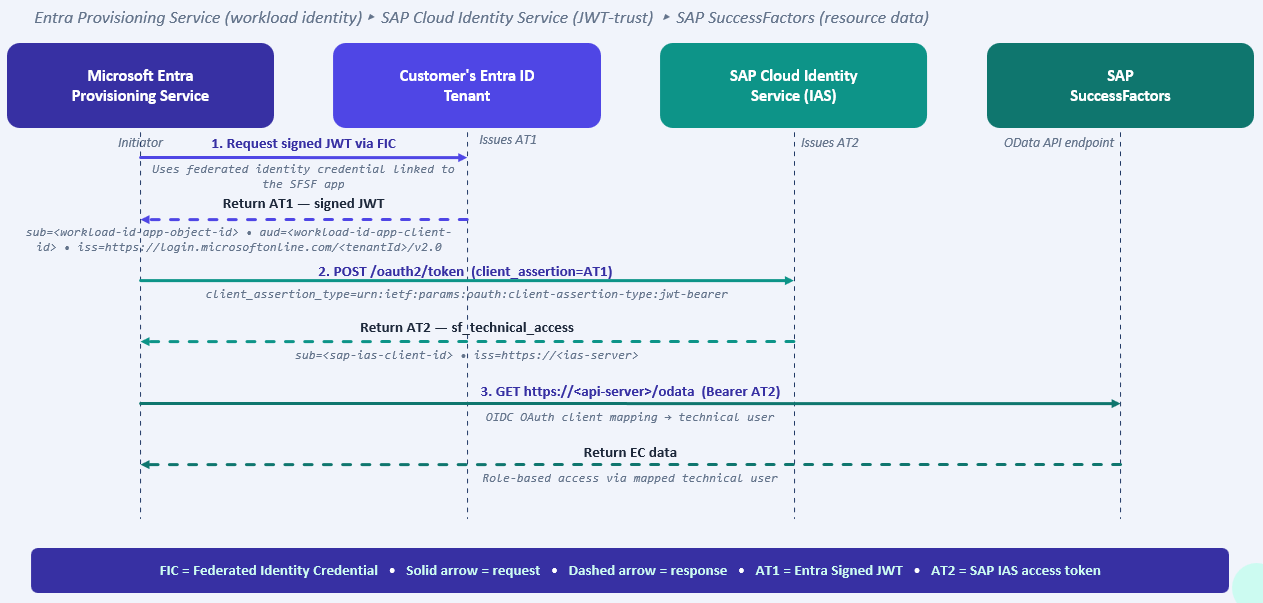
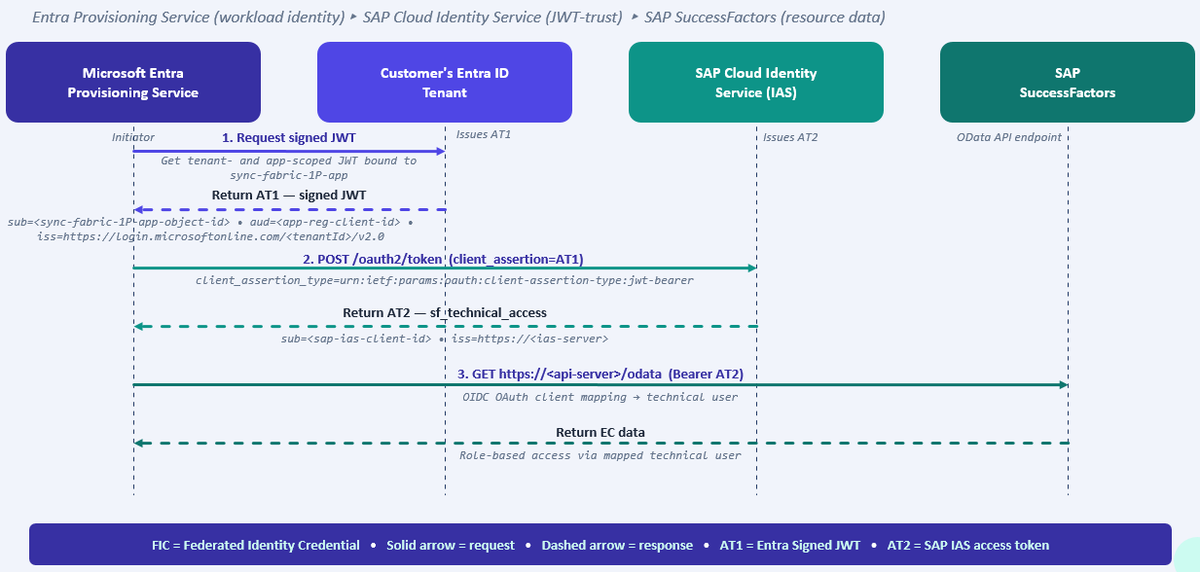
Updated the SuccessFactors Workload Identity article (#14347)
* Updated the article

* Updated image

---------

diff --git a/docs/identity/app-provisioning/configure-workload-identity-sap-successfactors-provisioning.md b/docs/identity/app-provisioning/configure-workload-identity-sap-successfactors-provisioning.md
@@ -1,29 +1,41 @@
 ---
-title: Configure workload identity-based authentication for SAP SuccessFactors provisioning (Preview)
+title: Configure workload identity for SAP SuccessFactors provisioning
 description: Learn how to replace basic authentication with short-lived, federated OpenID Connect tokens for Microsoft Entra provisioning to SAP SuccessFactors.
 manager: pmwongera
 ms.service: entra-id
 ms.subservice: app-provisioning
 ms.topic: how-to
-ms.date: 05/26/2026
+ms.date: 09/10/2026
 ms.reviewer: cmmdesai
-ms.custom: sap-successfactors, workload-identity, provisioning
+ms.custom: sap-successfactors, workload-identity, provisioning, msecd-doc-authoring-1026
+ai-usage: ai-assisted
+#customer intent: As an administrator, I want to configure workload identity-based authentication for SAP SuccessFactors provisioning so that I can replace long-lived basic authentication credentials with short-lived tokens.
 ---
 
 # Configure workload identity-based authentication for SAP SuccessFactors provisioning (Preview)
 
-This article shows you how to configure workload identity-based authentication for the Microsoft Entra SAP SuccessFactors provisioning integrations. Workload identity-based authentication replaces the long-lived basic authentication credential used by the provisioning service with short-lived, federated OpenID Connect (OIDC) tokens issued by your Microsoft Entra tenant and trusted by your SAP Cloud Identity Service (SAP IAS) instance.
+This article is for administrators who configure Microsoft Entra provisioning integrations with SAP SuccessFactors. It explains how to replace the provisioning service's long-lived basic authentication credential with short-lived OpenID Connect (OIDC) tokens issued by your Microsoft Entra tenant. SAP Cloud Identity Services (SAP IAS) validates these tokens and exchanges them for access tokens used to call SAP SuccessFactors APIs. Before you begin, make sure you have a configured SAP SuccessFactors provisioning app and access to Microsoft Entra, SAP IAS, and SAP SuccessFactors administration.
 
 > [!NOTE]
 > We make public previews available to our customers under the terms applicable to previews. These terms are outlined in the overall Microsoft product terms for [online services](https://www.microsoft.com/licensing/terms/product/ForOnlineServices/all).
 
-This change helps customers transition to a more secure authentication model in preparation for SAP's plan to [deprecate basic authentication for SuccessFactors APIs](https://help.sap.com/docs/successfactors-release-information/8e0d540f96474717bbf18df51e54e522/fcc05a902b4140e585d968c2fe4a96bc.html).
+Workload identity-based authentication provides a more secure authentication model in preparation for SAP's plan to [deprecate basic authentication for SuccessFactors APIs](https://help.sap.com/docs/successfactors-release-information/8e0d540f96474717bbf18df51e54e522/fcc05a902b4140e585d968c2fe4a96bc.html).
 
-Applies to the following provisioning integrations:
+This article applies to the following provisioning integrations:
 
 - SuccessFactors to on-premises Active Directory user provisioning
 - SuccessFactors to Microsoft Entra ID user provisioning
 - SuccessFactors Writeback
+
+## Prerequisites
+
+Before you start, make sure that you have the following in place:
+
+- **SAP SuccessFactors provisioning app** configured from the Microsoft Entra enterprise application gallery.
+- **SAP Cloud Identity Services (SAP IAS)** available and [configured as the authentication service for SAP SuccessFactors](https://help.sap.com/docs/successfactors-platform/setting-up-sap-successfactors-with-identity-authentication-and-identity-provisioning-services/checking-to-see-if-you-aready-have-identity-authentication-enabled).
+- The [Application Administrator](/entra/identity/role-based-access-control/permissions-reference#application-administrator) role in Microsoft Entra ID to register or select a workload identity application and update the authentication method for your SuccessFactors provisioning app.
+- Access in the SAP Cloud Identity Services admin console that permits you to create an OpenID Connect application, add an application API dependency, and configure **JWT Trust-by-Issuer** client authentication.
+- Access in the SAP SuccessFactors admin console that permits you to manage OIDC OAuth client applications and map a client to a technical/API user with the required role-based permissions.
 
 ## Why workload identity-based authentication
 
@@ -32,65 +44,58 @@ Workload identity-based authentication strengthens your security posture by remo
 | Benefit | What changes |
 | --- | --- |
 | **No static credentials** | Stored passwords and long-lived secrets are replaced with OIDC-issued tokens that expire in minutes. |
-| **Federated by design** | A federated identity credential links your Microsoft Entra tenant to SAP Cloud Identity Service through OIDC trust rules that you control. |
-| **Least-privilege access** | The short-lived access token is scoped to the SAP SuccessFactors OData API and bound to a role-based technical/API user. |
-| **Fully revocable** | Trust can be revoked from Microsoft Entra at any time without rotating shared secrets in SAP. |
+| **Federated by design** | SAP IAS validates Microsoft Entra-issued tokens through tenant-specific OIDC trust rules that you control. |
+| **Least-privilege access** | The short-lived access token is scoped to the SAP SuccessFactors Open Data Protocol (OData) API and bound to a role-based technical/API user. |
+| **Fully revocable** | You can revoke the trust by removing or disabling the Trust-by-Issuer configuration in SAP IAS without rotating shared secrets. |
 
 ## How the flow works
 
-Microsoft Entra provisioning service authenticates to SAP SuccessFactors using short-lived OIDC tokens issued by your Microsoft Entra tenant and trusted by your SAP Cloud Identity Service instance. The flow has three steps:
+Microsoft Entra provisioning service authenticates to SAP SuccessFactors through SAP IAS. Microsoft Entra issues a short-lived OIDC token that identifies the tenant-local SyncFabric service principal and is scoped to the customer workload identity application. SAP IAS validates this token and exchanges it for an access token used with SAP SuccessFactors. The flow has three steps:
 
-1. **Microsoft Entra acquires a signed JWT.** Microsoft Entra provisioning service uses a federated identity credential linked to your SuccessFactors provisioning app to acquire a signed JWT from your Microsoft Entra tenant.
-2. **SAP Cloud Identity Service exchanges the JWT for an access token.** The signed JWT is presented to SAP Cloud Identity Service, which is trusted by SAP SuccessFactors. SAP Cloud Identity Service validates the JWT against the trust rules you configure in the SAP Cloud Identity Service admin console and returns a short-lived access token that can only be used to query the SAP SuccessFactors OData API.
-3. **The provisioning service calls the OData API.** Microsoft Entra provisioning service uses the short-lived access token to query the SAP SuccessFactors OData API. The access token includes a client ID that's mapped to a technical/API user in SAP SuccessFactors with role-based permission to access SAP SuccessFactors entities.
+> [!NOTE]
+> In this article, **SyncFabric** refers to the Microsoft Entra provisioning service. The **SyncFabric Workload Identity ISV Integration Client** service principal represents this service as the subject (`sub`) of the Microsoft Entra-issued JSON Web Token (JWT). AT1 also includes the authorized party (`azp`) claim set to the application (client) ID of the **SyncFabric Workload Identity ISV Integration Client**.
 
-:::image type="content" source="./media/configure-workload-identity-sap-successfactors-provisioning/entra-sap-workload-identity-detailed-flow.png" alt-text="Diagram of the detailed runtime flow showing AT1 acquisition from Microsoft Entra, exchange for AT2 at SAP Cloud Identity Service, and the OData API call to SAP SuccessFactors." lightbox="./media/configure-workload-identity-sap-successfactors-provisioning/entra-sap-workload-identity-detailed-flow.png":::
+1. **The provisioning service obtains a signed JWT.** Microsoft Entra issues a JWT in which the issuer (`iss`) identifies your tenant, the subject (`sub`) identifies the tenant-local SyncFabric first-party service principal, and the audience (`aud`) identifies the customer workload identity application.
+1. **SAP IAS exchanges the JWT for an access token.** The signed JWT is presented to SAP IAS, which is trusted by SAP SuccessFactors. SAP IAS validates the token signature, issuer, subject, and audience against the Trust-by-Issuer configuration and returns a short-lived access token that can only be used to query the SAP SuccessFactors OData API.
+1. **The provisioning service calls the OData API.** Microsoft Entra provisioning service uses the short-lived access token to query the SAP SuccessFactors OData API. The access token includes a client ID that's mapped to a technical/API user in SAP SuccessFactors with role-based permission to access SAP SuccessFactors entities.
+
+:::image type="content" source="./media/configure-workload-identity-sap-successfactors-provisioning/entra-sap-workload-identity-detailed-flow.png" alt-text="Diagram of OIDC token acquisition, SAP IAS token exchange, and SAP SuccessFactors OData API access." lightbox="./media/configure-workload-identity-sap-successfactors-provisioning/entra-sap-workload-identity-detailed-flow.png":::
 
 ### Token exchange sequence diagram
 
 The runtime exchange involves three cloud services (Microsoft Entra ID, SAP IAS and SAP SuccessFactors) and two access tokens (AT):
 
-- **AT1** — A JWT issued by Microsoft Entra ID through the federated identity credential.
-- **AT2** — A short-lived access token issued by SAP Cloud Identity Service after it validates AT1 through Trust-by-Issuer.
+- **AT1** — A JWT issued by Microsoft Entra ID. The token is bound to the SyncFabric first-party service principal and scoped to the customer workload identity application.
+- **AT2** — A short-lived access token issued by SAP IAS after it validates AT1 through Trust-by-Issuer.
 
 The following swim-lane shows who calls whom, in order, at runtime.
 
-:::image type="content" source="./media/configure-workload-identity-sap-successfactors-provisioning/token-exchange-sequence-diagram.png" alt-text="Sequence diagram of the runtime token exchange between Microsoft Entra provisioning service, the customer's Entra ID tenant, SAP Cloud Identity Service, and SAP SuccessFactors." lightbox="./media/configure-workload-identity-sap-successfactors-provisioning/token-exchange-sequence-diagram.png":::
+:::image type="content" source="./media/configure-workload-identity-sap-successfactors-provisioning/token-exchange-sequence-diagram.png" alt-text="Sequence diagram of token exchange between Microsoft Entra provisioning, SAP IAS, and SAP SuccessFactors." lightbox="./media/configure-workload-identity-sap-successfactors-provisioning/token-exchange-sequence-diagram.png":::
 
 ### Token claim reference
 
 | Token | Claim | Value |
 | --- | --- | --- |
-| **AT1** (Microsoft Entra–issued JWT) | `sub` | `<workload-identity-app-object-id>` |
-| | `aud` | `<workload-identity-app-client-id>` |
+| **AT1** (Microsoft Entra–issued JWT) | `sub` | Object ID of the **SyncFabric Workload Identity ISV Integration Client** service principal |
+| | `aud` | Application (client) ID of the customer workload identity application |
 | | `iss` | `https://login.microsoftonline.com/<tenantId>/v2.0` |
+| | `azp` | Application (client) ID of the **SyncFabric Workload Identity ISV Integration Client** |
 | **AT2** (SAP IAS access token) | `sub` | `<sap-ias-app-client-id>` |
 | | `iss` | `https://<sap-ias-server>` |
 | | `ias_apis` | `sf_technical_access` |
 | | `client_assertion_type` | `urn:ietf:params:oauth:client-assertion-type:jwt-bearer` |
 
-## Prerequisites
-
-Before you start, make sure that you have the following in place:
-
-- **SAP SuccessFactors provisioning app** configured from the Microsoft Entra enterprise application gallery.
-- **SAP Cloud Identity Service (SAP IAS)** available and [configured as the authentication service for SAP SuccessFactors](https://help.sap.com/docs/successfactors-platform/setting-up-sap-successfactors-with-identity-authentication-and-identity-provisioning-services/checking-to-see-if-you-aready-have-identity-authentication-enabled).
-- **Administrator access** to the Microsoft Entra admin center (App Admin role), the SAP Cloud Identity Service admin console, and the SAP SuccessFactors admin console to configure the following:
-  - In Microsoft Entra admin center, you need access to register an app with **Federated identity credential** and update the authentication mechanism for your SuccessFactors provisioning app to use this workload identity.
-  - In SAP Cloud Identity Service (SAP IAS) admin console, you need access to configure **JWT Trust-by-Issuer** trust relationship that allows SAP Cloud Identity Service to trust Microsoft Entra–issued tokens for your tenant.
-  - In SAP SuccessFactors admin console, you need access to configure the **OIDC OAuth client mapping** that binds the SAP IAS client ID to a SuccessFactors technical/API user with role-based permissions.
-
 ## Planning the upgrade
 
-Switching to workload identity-based authentication involves coordination across three admin teams — the teams that administer Microsoft Entra, SAP Cloud Identity Service, and SAP SuccessFactors. Share this article with all relevant stakeholders before you begin so that everyone has a clear understanding of the end-to-end flow.
+Switching to workload identity-based authentication involves coordination across three admin teams — the teams that administer Microsoft Entra, SAP Cloud Identity Services, and SAP SuccessFactors. Share this article with all relevant stakeholders before you begin so that everyone has a clear understanding of the end-to-end flow.
 
 Consider the following approach:
 
 - **Coordinate across teams.** Set up a working session with representation from each service team (Microsoft Entra, SAP IAS, and SAP SuccessFactors administration) so that all required configuration steps can be completed without waiting for handoffs.
-- **Test in a nonproduction environment first.** Complete the end-to-end configuration in a QA or development environment before applying the change in production. This approach lets you validate the token exchange flow and provisioning behavior with no risk to production users.
+- **Test in a nonproduction environment first.** Complete the end-to-end configuration in a quality assurance (QA) or development environment before applying the change in production. This approach lets you validate the token exchange flow and provisioning behavior with no risk to production users.
 - **Replicate after the first app is validated.** After your team is comfortable with the process for one SuccessFactors provisioning app, you can apply the same steps quickly to other provisioning apps in your tenant.
 - **Use a test app if you can't change the production app directly.** If there are organizational or change-management constraints that prevent you from modifying the production provisioning app directly, you can create a new SAP SuccessFactors provisioning app in your production tenant. Use that test app to validate end-to-end connectivity and targeted user flows with **Provision on demand** before applying the change to the production app.
-- **Reuse the existing API user account.** When you configure the OIDC OAuth Client Application mapping in SAP SuccessFactors (Step 4), bind the SAP IAS Client ID to the same [SuccessFactors API user account](./configure-successfactors-api-user.md) that was previously used with basic authentication. This binding ensures that the role-based permissions governing which SuccessFactors Employee Central entities are accessible remain identical before and after the switch, so there are no unexpected changes in the data fetched by the provisioning job.
+- **Reuse the existing API user account.** When you configure the OIDC OAuth Client Application mapping in SAP SuccessFactors, bind the SAP IAS Client ID to the same [SuccessFactors API user account](./configure-successfactors-api-user.md) that was previously used with basic authentication. This binding ensures that the role-based permissions governing which SuccessFactors Employee Central entities are accessible remain identical before and after the switch, so there are no unexpected changes in the data fetched by the provisioning job.
 - **Use a recommended sequence if you have multiple SuccessFactors provisioning apps.** If your tenant has more than one SAP SuccessFactors provisioning app, upgrade them in the following order: (1) **SuccessFactors Writeback**, (2) **SuccessFactors to Microsoft Entra ID user provisioning**, and (3) **SuccessFactors to on-premises Active Directory user provisioning**. This sequence ensures that write-back operations are validated first before inbound provisioning flows are switched over.
 
 > [!NOTE]
@@ -98,59 +103,67 @@ Consider the following approach:
 
 ## Configuration steps
 
-The configuration is a one-time setup that spans three admin consoles. The Microsoft Entra admin center walks you through the flow as a guided experience and exchanges parameters with the SAP Cloud Identity Service admin console along the way. The high-level sequence is:
+The configuration is a one-time setup that spans three admin consoles. The Microsoft Entra admin center walks you through the flow as a guided experience and exchanges parameters with the SAP Cloud Identity Services admin console along the way. The high-level sequence is:
 
-1. In **Microsoft Entra**, switch the SuccessFactors provisioning app's authentication method and create (or reuse) a workload identity application with a federated identity credential.
-1. In the **SAP Cloud Identity Service admin console**, configure JWT Trust-by-Issuer using the token issuer, JWKS URI, subject, and audience values that Microsoft Entra provides.
-1. Back in **Microsoft Entra**, paste the values returned by SAP Cloud Identity Service (including the app dependency name), run **Test connection**, and activate workload identity-based authentication.
+1. In **Microsoft Entra**, switch the SuccessFactors provisioning app's authentication method and create or reuse a workload identity application.
+1. In the **SAP Cloud Identity Services admin console**, configure JWT Trust-by-Issuer using the token issuer, JSON Web Key Set (JWKS) URI, subject, and audience values that Microsoft Entra provides.
+1. Back in **Microsoft Entra**, paste the values returned by SAP Cloud Identity Services (including the app dependency name), run **Test connection**, and activate workload identity-based authentication.
 1. In the **SAP SuccessFactors admin console**, confirm the OIDC OAuth client-to-technical-user mapping.
 1. Validate by running provisioning on demand for a known user.
 
 ### Step 1: Open the SAP SuccessFactors provisioning app and switch the authentication method
 
+Use the guided experience to pause provisioning and select workload identity-based authentication:
+
 1. Sign in to the [Microsoft Entra admin center](https://entra.microsoft.com) as at least an **Application Administrator** of the tenant that hosts the SAP SuccessFactors provisioning app.
 1. Open the **SAP SuccessFactors** provisioning app (the gallery app for inbound user provisioning or for write-back, depending on the integration you're upgrading).
-1. Select **Provisioning** blade. In the **Overview** section, select **Pause provisioning** to suspend provisioning cycles until the upgrade is complete.
+1. Select the **Provisioning** blade. In the **Overview** section, select **Pause provisioning** to suspend provisioning cycles until the upgrade is complete.
    > [!NOTE]
    > When you select **Pause provisioning**, the existing sync state and watermarks are preserved. After you switch the authentication method from basic authentication to workload identity, you can select **Start provisioning** and incremental provisioning cycles continue from the state where you paused provisioning.
-1. Select **Provisioning** and locate the **Connectivity** section. While basic authentication remains active, you see the **Admin password** and **Tenant URL** fields and a banner indicating that SAP is deprecating basic authentication by **November 2026** and that you should upgrade to workload identity-based authentication before that date.
-1. In the **Select authentication method** dropdown, select **Workload identity-based authentication** to start the guided configuration experience.
-  :::image type="content" source="./media/configure-workload-identity-sap-successfactors-provisioning/switch-to-workload-identity-authentication.png" alt-text="Screenshot showing how to switch to workload identity-based authentication." lightbox="./media/configure-workload-identity-sap-successfactors-provisioning/switch-to-workload-identity-authentication.png":::
+1. Select **Provisioning** and locate the **Connectivity** section. While basic authentication remains active, you see the **Admin password** and **Tenant URL** fields and a banner recommending that you upgrade to workload identity-based authentication.
+1. In the **Select authentication method** list, select **Workload identity-based authentication** to start the guided configuration experience.
+    :::image type="content" source="./media/configure-workload-identity-sap-successfactors-provisioning/switch-to-workload-identity-authentication.png" alt-text="Screenshot showing how to switch to workload identity-based authentication." lightbox="./media/configure-workload-identity-sap-successfactors-provisioning/switch-to-workload-identity-authentication.png":::
 
 ### Step 2: Create or select the workload identity application
 
-The guided experience prompts you to register a workload identity application. This application is the identity that Microsoft Entra provisioning service impersonates when it requests AT1.
+The guided experience prompts you to register or select a workload identity application. The application's client ID is used as the audience (`aud`) of AT1 and scopes the trust that you configure in SAP IAS.
 
 1. Select **Select workload identity**. In the side-panel, choose one of the following:
-   - **Register** to let the guided experience create a fresh workload identity app registration. You can optionally rename the default **App registration name**.
-   - **Select existing** if you already configured a workload identity application that talks to SAP Cloud Identity Service (for example, if you have multiple SAP SuccessFactors provisioning apps and you want to reuse an existing workload identity app).
-     :::image type="content" source="./media/configure-workload-identity-sap-successfactors-provisioning/select-or-register-workload-identity-app.png" alt-text="Screenshot showing the register and select options." lightbox="./media/configure-workload-identity-sap-successfactors-provisioning/select-or-register-workload-identity-app.png":::
-1. When you register a new workload identity app, the guided experience automatically creates a new app registration and attaches a **federated identity credential** to the workload identity application so the Microsoft Entra provisioning service (Sync Fabric) can impersonate the application running in your tenant and request the short-lived access token from SAP SuccessFactors.
-   > [!TIP]
-   > You can select the app registration link to open the app and inspect the federated identity credential on the workload identity application's **Certificates & secrets** > **Federated credentials** blade. Don't remove or rename it — Microsoft Entra provisioning service relies on this credential to acquire AT1 at runtime.
-1. After you select the workload identity application, Microsoft Entra displays the values that SAP Cloud Identity Service needs to trust tokens issued by your tenant. Keep this panel open and switch to the SAP Cloud Identity Service admin console.
+    - **Register** to let the guided experience create a fresh workload identity app registration. You can optionally rename the default **App registration name**.
+    - **Select existing** if you already configured a workload identity application that talks to SAP Cloud Identity Services (for example, if you have multiple SAP SuccessFactors provisioning apps and you want to reuse an existing workload identity app).
+      :::image type="content" source="./media/configure-workload-identity-sap-successfactors-provisioning/select-or-register-workload-identity-app.png" alt-text="Screenshot showing the register and select options." lightbox="./media/configure-workload-identity-sap-successfactors-provisioning/select-or-register-workload-identity-app.png":::
+1. When you select **Register**, the guided experience creates the workload identity app registration in your tenant.
+
+    > [!NOTE]
+    > The first time you configure workload identity-based authentication, the integration automatically creates the Microsoft first-party service principal **SyncFabric Workload Identity ISV Integration Client** in your tenant. Its object ID, which is unique to your tenant, is used as the `sub` claim in the Microsoft Entra-issued JWT sent to SAP IAS. The workload identity application's client ID is used separately as the JWT `aud` claim.
+
+1. After you select the workload identity application, Microsoft Entra displays the values that SAP Cloud Identity Services needs to trust tokens issued by your tenant. Keep this panel open and switch to the SAP Cloud Identity Services admin console.
    
    :::image type="content" source="./media/configure-workload-identity-sap-successfactors-provisioning/workload-identity-setup-parameters.png" alt-text="Screenshot showing the workload identity setup parameters." lightbox="./media/configure-workload-identity-sap-successfactors-provisioning/workload-identity-setup-parameters.png":::
 
-### Step 3: Copy the Microsoft Entra trust parameters into SAP Cloud Identity Service
+<a name='step-3-copy-the-microsoft-entra-trust-parameters-into-sap-cloud-identity-service'></a>
 
-1. Sign in as administrator to the **SAP Cloud Identity Service admin console** associated with your SAP SuccessFactors instance.
+### Step 3: Copy the Microsoft Entra trust parameters into SAP Cloud Identity Services
+
+Create an OIDC application and copy the Microsoft Entra trust parameters into SAP Cloud Identity Services:
+
+1. Sign in as administrator to the **SAP Cloud Identity Services admin console** associated with your SAP SuccessFactors instance.
 1. From the **Applications & Resources** menu, select **Applications** and select **Create** to create a new **OpenID Connect** application. 
    
    :::image type="content" source="./media/configure-workload-identity-sap-successfactors-provisioning/sap-ias-create-app.png" alt-text="Screenshot showing SAP IAS app creation options." lightbox="./media/configure-workload-identity-sap-successfactors-provisioning/sap-ias-create-app.png":::
-2. In the **Trust** tab, under **Application APIs**, select **Dependencies**. Add a new dependency so that this app can consume the APIs of your SAP SuccessFactors. From the **Application** dropdown, select your SAP SuccessFactors instance and from the **API** dropdown select `sf_technical_access`. Note down the **Dependency name** because you use it in step 5.
+1. In the **Trust** tab, under **Application APIs**, select **Dependencies**. Add a new dependency so that this app can consume the APIs of your SAP SuccessFactors. From the **Application** list, select your SAP SuccessFactors instance, and from the **API** list, select `sf_technical_access`. Record the **Dependency name** to use when you copy the SAP Cloud Identity Services parameters back into Microsoft Entra.
    :::image type="content" source="./media/configure-workload-identity-sap-successfactors-provisioning/configure-successfactors-dependency.png" alt-text="Screenshot showing SAP IAS to SuccessFactors dependency configuration." lightbox="./media/configure-workload-identity-sap-successfactors-provisioning/configure-successfactors-dependency.png":::
-3. In the **Trust** tab, under **Application APIs**, select **Client Authentication**. Go to the **JSON Web Tokens > Configure Trust By Issuer** section and select **Add** to configure SAP IAS to trust Microsoft Entra issued tokens. From the Microsoft Entra panel, copy the following values into the corresponding fields in SAP Cloud Identity Service:
+1. In the **Trust** tab, under **Application APIs**, select **Client Authentication**. Go to the **JSON Web Tokens > Configure Trust By Issuer** section and select **Add** to configure SAP IAS to trust Microsoft Entra-issued tokens. From the Microsoft Entra panel, copy the following values into the corresponding fields in SAP Cloud Identity Services:
 
-   | Microsoft Entra field | SAP Cloud Identity Service field |
-   | --- | --- |
-   | **Token issuer** | Issuer |
-   | **JWKS URI** | JSON Web Key Set URI |
-   | **Subject** | Subject |
-   | **Audience** | Audience |
+    | Microsoft Entra field | SAP Cloud Identity Services field |
+    | --- | --- |
+    | **Token issuer** | Issuer |
+    | **JWKS URI** | JSON Web Key Set URI |
+    | **Subject** | Subject |
+    | **Audience** | Audience |
 
    :::image type="content" source="./media/configure-workload-identity-sap-successfactors-provisioning/configure-json-web-token-issuer-trust.png" alt-text="Screenshot showing which values to copy from Microsoft Entra provisioning app to SAP IAS app." lightbox="./media/configure-workload-identity-sap-successfactors-provisioning/configure-json-web-token-issuer-trust.png":::
-4. Save the trust configuration in SAP Cloud Identity Service. The configured trust enables SAP Cloud Identity Service to validate AT1 — verify the signature against the JWKS URI and confirm the subject and audience match — and issue AT2 (the SAP IAS access token with the `sf_technical_access` scope).
+1. Save the trust configuration in SAP Cloud Identity Services. The configured trust enables SAP IAS to validate the signature, issuer, subject, and audience of AT1 and issue AT2 (the SAP IAS access token with the `sf_technical_access` scope).
 
 ### Step 4: Configure OIDC OAuth Client Application mapping in SAP SuccessFactors
 
@@ -163,34 +176,36 @@ The SAP IAS client ID that's now part of the trust configuration must be mapped 
 1. Go to **Admin Center > Security Center > Manage OIDC OAuth Client Application**.
 1. Open the **Application Type** tab and select **Register** to register `Entra-Provisioning` as a new application type.
     :::image type="content" source="./media/configure-workload-identity-sap-successfactors-provisioning/register-new-app-type-in-successfactors.png" alt-text="Screenshot showing registering new application type in SAP SuccessFactors." lightbox="./media/configure-workload-identity-sap-successfactors-provisioning/register-new-app-type-in-successfactors.png":::
-1. Open the **Application Map** tab and select **Register** to bind the SAP IAS `Client ID` from step 3 to an existing technical/API user in SAP SuccessFactors.
-    :::image type="content" source="./media/configure-workload-identity-sap-successfactors-provisioning/sap-ias-to-successfactors-oidc-mapping.png" alt-text="Screenshot showing how to map SAP IAS client id to SuccessFactors technical/API user." lightbox="./media/configure-workload-identity-sap-successfactors-provisioning/sap-ias-to-successfactors-oidc-mapping.png":::
+1. Open the **Application Map** tab and select **Register** to bind the SAP IAS `Client ID` from the SAP Cloud Identity Services trust configuration to an existing technical/API user in SAP SuccessFactors.
+    :::image type="content" source="./media/configure-workload-identity-sap-successfactors-provisioning/sap-ias-to-successfactors-oidc-mapping.png" alt-text="Screenshot showing how to map an SAP IAS client ID to a SuccessFactors technical/API user." lightbox="./media/configure-workload-identity-sap-successfactors-provisioning/sap-ias-to-successfactors-oidc-mapping.png":::
 1. In the mapping, ensure that:
-   - **Client ID** matches the SAP IAS client ID from the trust configuration in Step 3.
-   - **User ID** is the SuccessFactors API user (for example, `entra.sap.admin`) whose **role-based permission group** grants OData API access to the Employee Central entities your provisioning job consumes. If you're switching from basic authentication to workload identity-based authentication, you can map the **Client ID** to the same API user that you configured for use with basic authentication.
+    - **Client ID** matches the SAP IAS client ID from the SAP Cloud Identity Services trust configuration.
+    - **User ID** is the SuccessFactors API user (for example, `entra.sap.admin`) whose **role-based permission group** grants OData API access to the Employee Central entities your provisioning job consumes. If you're switching from basic authentication to workload identity-based authentication, you can map the **Client ID** to the same API user that you configured for use with basic authentication.
 
-### Step 5: Copy the SAP Cloud Identity Service parameters back into Microsoft Entra
+<a name='step-5-copy-the-sap-cloud-identity-service-parameters-back-into-microsoft-entra'></a>
 
-SAP Cloud Identity Service generates one or more values that Microsoft Entra needs to complete the configuration — most notably the **Client ID** and **App dependency name** that ties the trust configuration to the SAP SuccessFactors OData endpoint.
+### Step 5: Copy the SAP Cloud Identity Services parameters back into Microsoft Entra
 
-1. In the SAP Cloud Identity Service admin console, open the OIDC application configured in Step 3. Go to **Trust > Dependencies** panel and copy the **Dependency Name**. Prepend the string `urn:sap:identity:application:provider:name:`. For example: if your **Dependency Name** is `SF-EC-TA`, then set the value of **App Dependency Name** in your SuccessFactors provisioning app to `urn:sap:identity:application:provider:name:SF-EC-TA`.
+SAP Cloud Identity Services generates one or more values that Microsoft Entra needs to complete the configuration — most notably the **Client ID** and **App dependency name** that ties the trust configuration to the SAP SuccessFactors OData endpoint.
+
+1. In the SAP Cloud Identity Services admin console, open the OIDC application where you configured the Microsoft Entra trust parameters. Go to the **Trust > Dependencies** panel and copy the **Dependency Name**. Prepend the string `urn:sap:identity:application:provider:name:`. For example: if your **Dependency Name** is `SF-EC-TA`, then set the value of **App Dependency Name** in your SuccessFactors provisioning app to `urn:sap:identity:application:provider:name:SF-EC-TA`.
 1. Copy your SAP IAS OIDC application's **Client ID** to the **Client identifier** parameter.
 1. Set the `OAuth token endpoint` parameter to your SAP IAS authorization server's token endpoint. Example: `https://<ias-server>.accounts.ondemand.com/oauth2/token`
 1. Set the `Application API URL` parameter to your [SAP SuccessFactors OData API server](https://help.sap.com/docs/successfactors-platform/sap-successfactors-api-reference-guide-odata-v2/list-of-sap-successfactors-api-servers). Example: `https://apisalesdemo8.successfactors.com`.
 1. After you fill in all connectivity parameters, your configuration matches the layout shown in this screenshot.
-    :::image type="content" source="./media/sap-successfactors-workload-identity/workload-identity-all-parameters-configured.png" alt-text="Screenshot showing all workload identity connectivity parameters configured." lightbox="./media/sap-successfactors-workload-identity/workload-identity-all-parameters-configured.png":::
+    :::image type="content" source="./media/configure-workload-identity-sap-successfactors-provisioning/workload-identity-all-parameters-configured.png" alt-text="Screenshot showing all workload identity connectivity parameters configured." lightbox="./media/configure-workload-identity-sap-successfactors-provisioning/workload-identity-all-parameters-configured.png":::
 
 ### Step 6: Test the connection and activate workload identity-based authentication
 
 Back in the Microsoft Entra admin center, validate the end-to-end token exchange and activate the new method.
 
-1. In the workload identity configuration panel, select **Test connection**. Microsoft Entra performs the full runtime flow — acquire AT1 from the federated identity credential, exchange it for AT2 at SAP Cloud Identity Service, and call the SAP SuccessFactors OData API.
+1. In the workload identity configuration panel, select **Test connection**. Microsoft Entra performs the full runtime flow: obtain an AT1 token bound to the SyncFabric service principal and scoped to the customer workload identity application, exchange it for AT2 at SAP IAS, and call the SAP SuccessFactors OData API.
 1. Confirm that the test connection returns **successful**. If it fails, see the [Troubleshooting](#troubleshooting) section.
 1. Select **Save and activate**. Workload identity-based authentication becomes the active method for the SuccessFactors provisioning app.
     :::image type="content" source="./media/configure-workload-identity-sap-successfactors-provisioning/workload-identity-as-active-auth-method.png" alt-text="Screenshot showing workload identity as the active authentication method." lightbox="./media/configure-workload-identity-sap-successfactors-provisioning/workload-identity-as-active-auth-method.png":::
 
 > [!NOTE]
-> Until November 2026, you can switch back to basic authentication at any time from the same **Authentication method** dropdown. After SAP retires basic authentication, only workload identity-based authentication is available.
+> While SAP supports basic authentication, you can switch back to it at any time from the same **Authentication method** dropdown. Use workload identity-based authentication whenever possible because it is more secure and doesn't require storing long-lived credentials.
 
 ### Step 7: Validate provisioning end-to-end
 
@@ -204,23 +219,21 @@ Before turning provisioning on at full scale, validate the upgraded configuratio
 
 After you complete the steps, use service logs to troubleshoot and verify the setup:
 
-- **Microsoft Entra sign-in logs** — You can view sign-in events associated with the workload identity app in the Microsoft Entra admin portal under **Monitoring & health > Sign-in logs** in the **Service principal sign-ins** tab. You can filter by **Client credential type** == "Federated identity credential".
-    :::image type="content" source="./media/configure-workload-identity-sap-successfactors-provisioning/service-principal-sign-in-events.png" alt-text="Screenshot showing Microsoft Entra sign-in event logs of federated identity credential type." lightbox="./media/configure-workload-identity-sap-successfactors-provisioning/service-principal-sign-in-events.png":::
-- **SAP Cloud Identity Service troubleshooting logs** — In the SAP Cloud Identity Service admin portal access **Monitoring & reporting > Troubleshooting logs** to view actions of type `login` and `issueJwtToken` for the SAP IAS client identifier configured in Microsoft Entra.
-    :::image type="content" source="./media/configure-workload-identity-sap-successfactors-provisioning/sap-ias-troubleshooting-logs.png" alt-text="Screenshot showing SAP Cloud Identity Service troubleshooting logs." lightbox="./media/configure-workload-identity-sap-successfactors-provisioning/sap-ias-troubleshooting-logs.png":::
+- **SAP Cloud Identity Services troubleshooting logs** — In the SAP Cloud Identity Services admin portal, access **Monitoring & reporting > Troubleshooting logs** to view actions of type `login` and `issueJwtToken`. Search the logs by using the client ID of the SAP IAS application associated with the integration.
+    :::image type="content" source="./media/configure-workload-identity-sap-successfactors-provisioning/sap-ias-troubleshooting-logs.png" alt-text="Screenshot showing SAP Cloud Identity Services troubleshooting logs." lightbox="./media/configure-workload-identity-sap-successfactors-provisioning/sap-ias-troubleshooting-logs.png":::
 - **SAP SuccessFactors OData audit logs** — In the SAP SuccessFactors Admin center, access the **OData API Audit Log** and filter by the API User Login ID, to retrieve API call records.
     :::image type="content" source="./media/configure-workload-identity-sap-successfactors-provisioning/successfactors-odata-api-audit-log.png" alt-text="Screenshot showing the SAP SuccessFactors OData API audit log." lightbox="./media/configure-workload-identity-sap-successfactors-provisioning/successfactors-odata-api-audit-log.png":::
   You can observe that before the change, the **HTTP Message** column in the logs had the string `authorization: Basic **********`. After switching to workload identity-based authentication, the **HTTP Message** column in the logs displays the string `authorization: Bearer **********`.
 
 ## Roll back
 
-If you need to roll back, you can re-enable basic authentication in the SuccessFactors provisioning app's admin credentials. Rollback is supported only until the basic authentication deprecation date of November 20, 2026 announced by SAP.
+If you need to roll back while SAP supports basic authentication, you can re-enable it in the SuccessFactors provisioning app's admin credentials. Use workload identity-based authentication whenever possible because it is more secure and doesn't require storing long-lived credentials.
 
 ## Troubleshooting
 
 | Symptom | Likely cause | Action |
 | --- | --- | --- |
-| `invalid_client_assertion` from SAP IAS | AT1 subject or audience doesn't match the SAP IAS Trust-by-Issuer rule. | Verify the `sub` and `aud` values configured on the federated identity credential against the trust rule in SAP IAS. |
+| `invalid_client_assertion` from SAP IAS | AT1 subject or audience doesn't match the SAP IAS Trust-by-Issuer rule. | Compare the **Subject** and **Audience** values provided by Microsoft Entra with the corresponding values in the SAP IAS trust rule. |
 | `unauthorized_client` from SAP IAS | JWKS URI is unreachable or signature validation failed. | Confirm the Microsoft Entra OIDC discovery endpoint is reachable from SAP IAS and that the tenant ID in the issuer claim matches. |
 | OData call returns 403 | SAP IAS client ID is not mapped to the right API User ID, or the API user lacks appropriate role-based permissions. | Re-verify the OIDC OAuth client mapping in SAP SuccessFactors and the permission group on the API user. |
 
@@ -229,8 +242,8 @@ If you need to roll back, you can re-enable basic authentication in the SuccessF
 If the troubleshooting steps don't resolve your issue and you still need help, open a support request from the Microsoft Entra admin center:
 
 1. Sign in to the [Microsoft Entra admin center](https://entra.microsoft.com).
-2. Select **New support request**.
-3. Fill in the support request form using the following values:
+1. Select **New support request**.
+1. Fill in the support request form using the following values:
 
    | Field | Value |
    | --- | --- |
@@ -238,10 +251,10 @@ If the troubleshooting steps don't resolve your issue and you still need help, o
    | **Summary** | SuccessFactors provisioning - Workload identity authentication issue |
    | **Problem type** | Provisioning from Cloud HR to AD or Microsoft Entra ID |
    | **Problem subtype** | Problem configuring the provisioning service |
-4. Complete the remaining fields and submit the request.
+
+1. Complete the remaining fields and submit the request.
 
 ## Related content
 
 - [Microsoft Entra ID and SAP SuccessFactors integration reference](sap-successfactors-integration-reference.md)
 - [Workload identity federation in Microsoft Entra ID](../../workload-id/workload-identity-federation.md)
-- [Federated identity credentials](../../workload-id/workload-identity-federation-create-trust.md)
